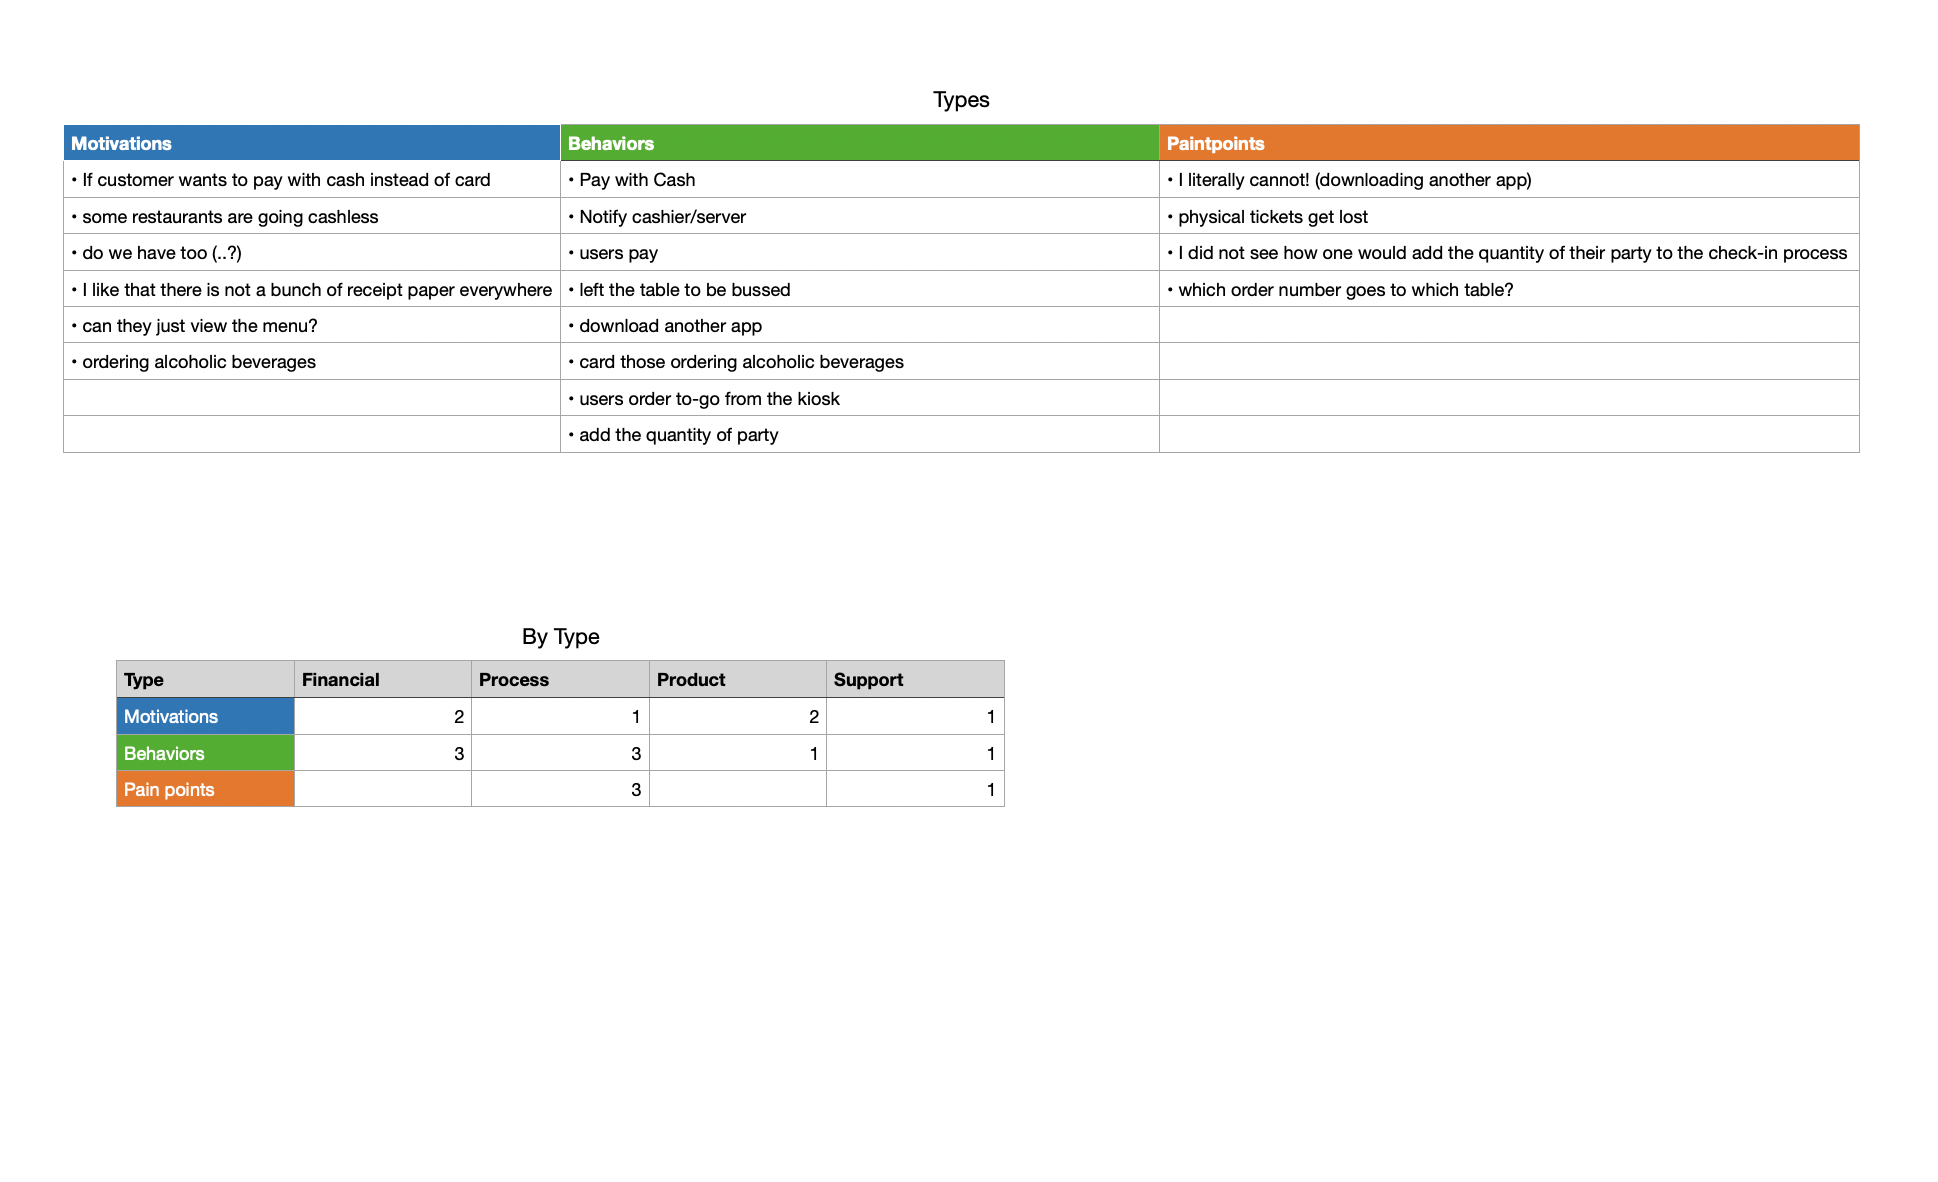
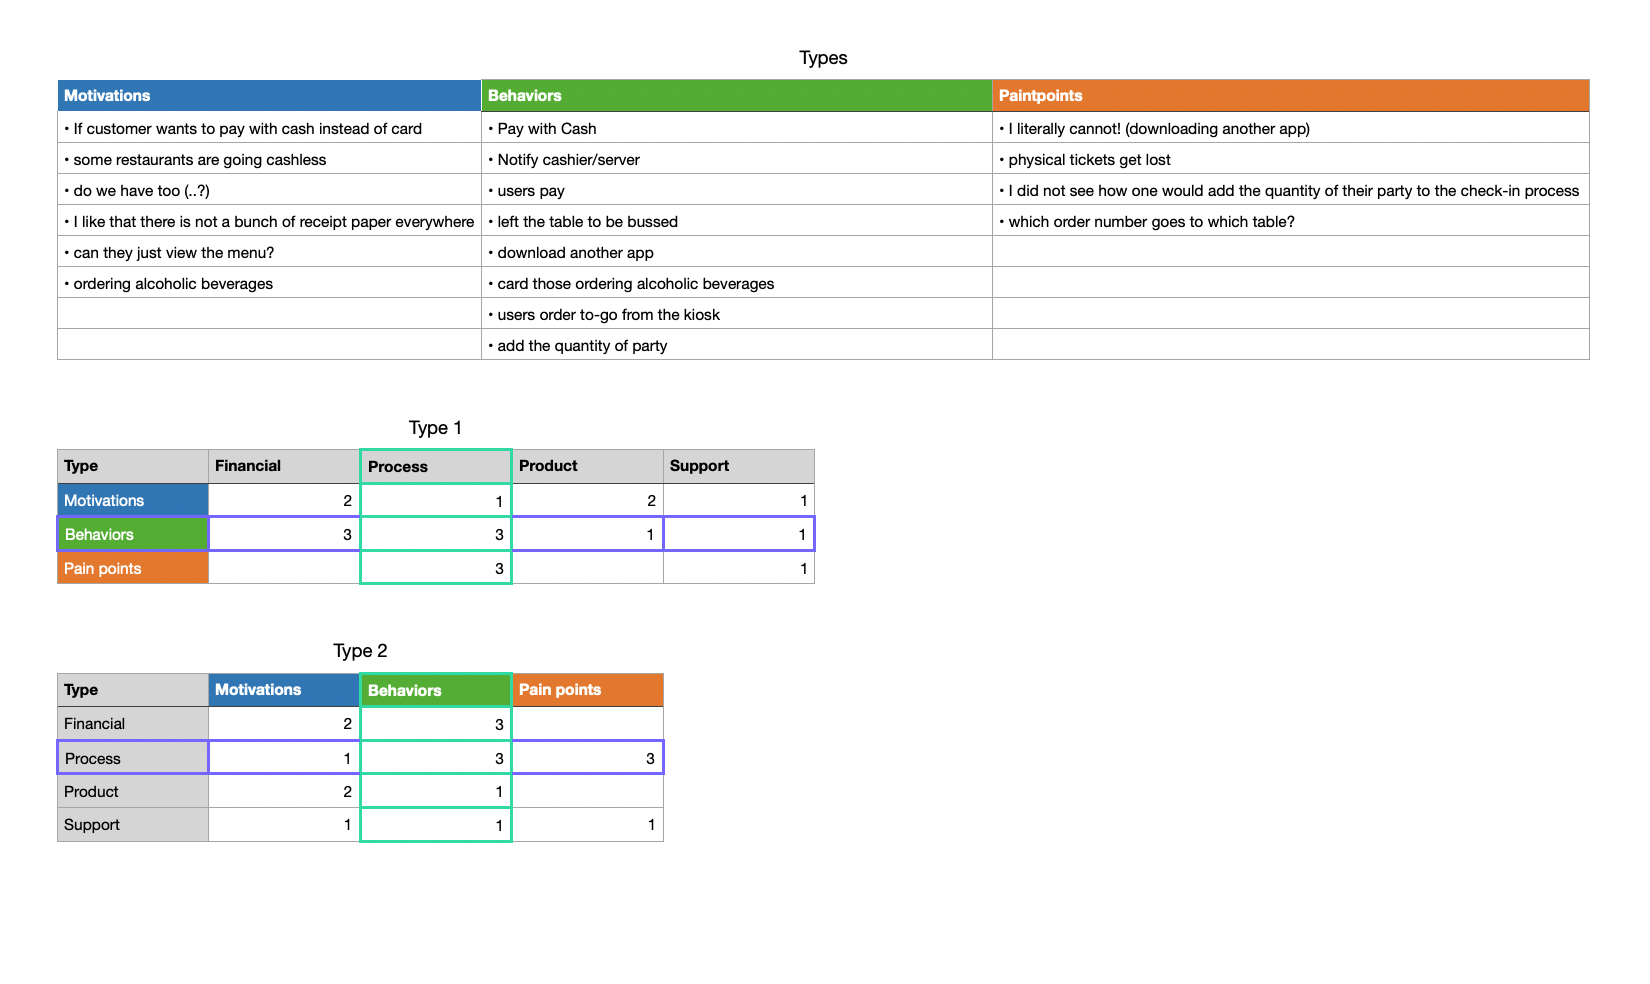
Save

Changed region(s): [[0.0309, 0.061, 0.9891, 0.3963], [0.0309, 0.4268, 0.5255, 0.8537]]

diff --git a/projects/drexel/prototype-1.html b/projects/drexel/prototype-1.html
@@ -274,12 +274,16 @@
             </div>
             <div>
               <h4>Motivations, behaviors, and pain points</h4>
-              <div>
+              <div class="row-67_33-seco">
                 <div>
                   <a target="_blank" href="../../assets/images/projects/prototype-1/types.png">
                     <img src="../../assets/images/projects/prototype-1/types.png" alt="Payment Type - Refinement">
                     <span class="font-caption">Payment Type - Refinement</span>
                   </a>
+                </div>
+                <div>
+                  <h4>Behavior and process</h4>
+                  <p>Feedback from the prototypes were mostly behavioral. Behavioral feedback revolves around the act or behaviors of users who experimented with a prototype. When further examining the feedback as segments, most of the feedback was about the processes involved in the prototypes.</p>
                 </div>
               </div>
             </div>
